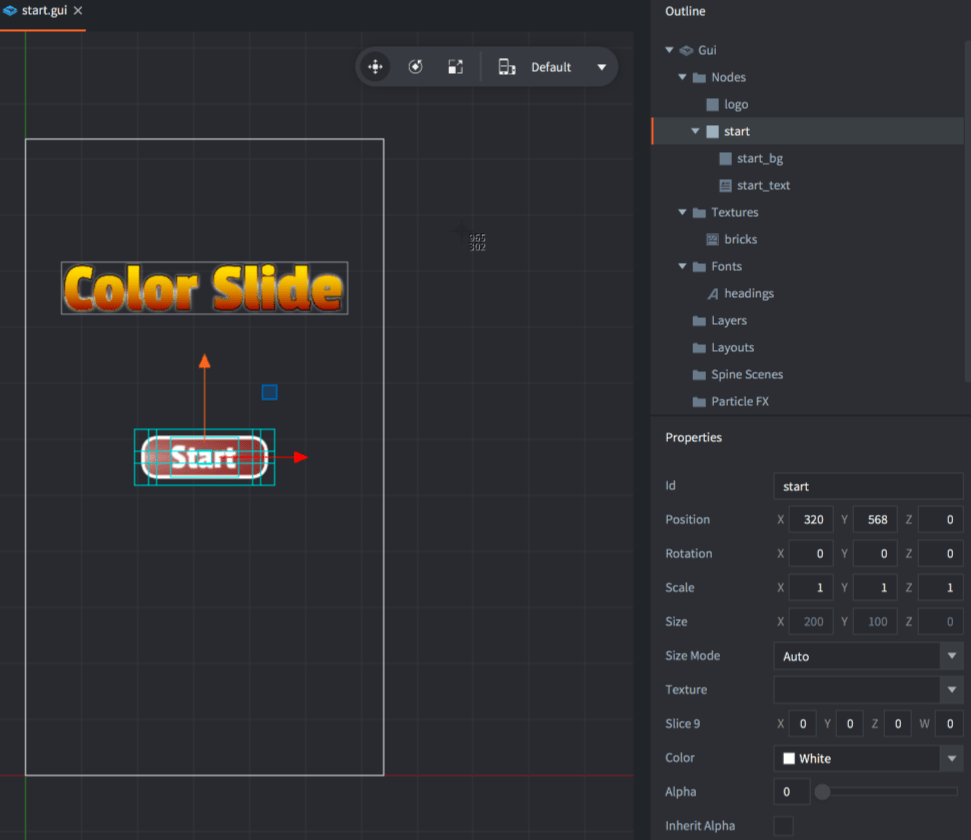
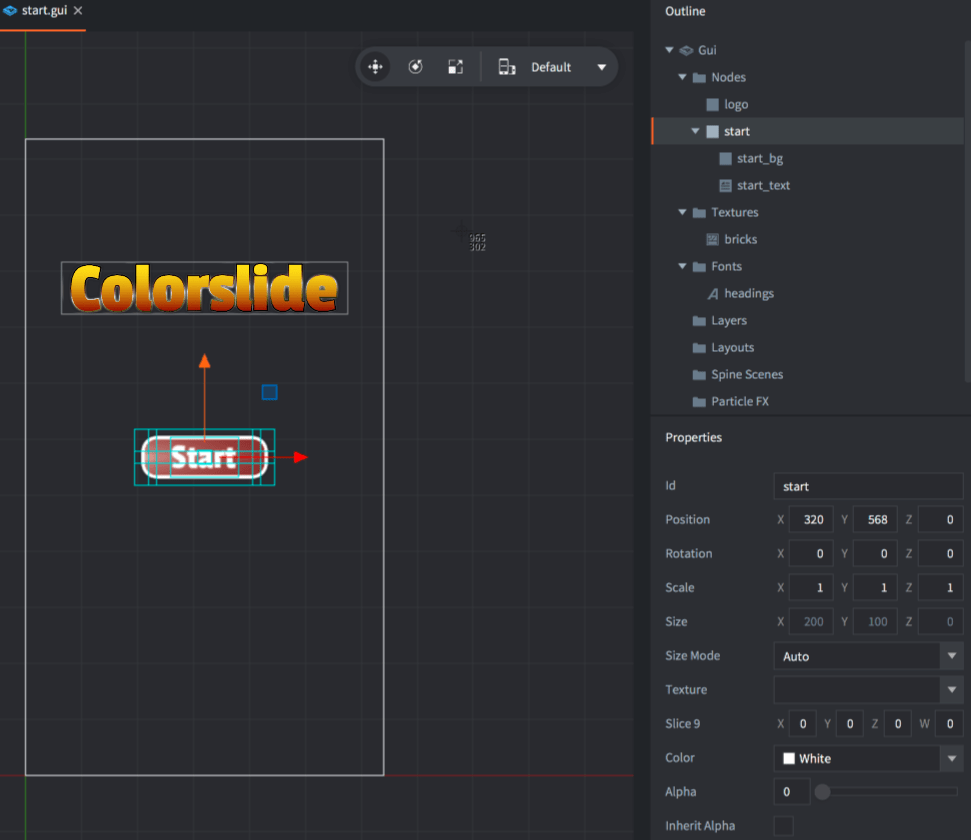
Some minor edits.

Changed region(s): [[0.0618, 0.3095, 0.3708, 0.3714]]

diff --git a/README.md b/README.md
@@ -1,6 +1,6 @@
-# Color Slide tutorial
+# Colorslide tutorial
 
-Welcome to the Color Slide game tutorial. It will take you through the process of adding a simple GUI flow to an existing multi level mobile game. It is assumed that you know your way around the editor. If you don't, please check out [our manuals and beginner tutorials](https://www.defold.com/learn).
+Welcome to the Colorslide game tutorial. It will take you through the process of adding a simple GUI flow to an existing multi level mobile game. It is assumed that you know your way around the editor. If you don't, please check out [our manuals and beginner tutorials](https://www.defold.com/learn).
 
 The starting point for this tutorial is this project. It contains everything you need:
 
